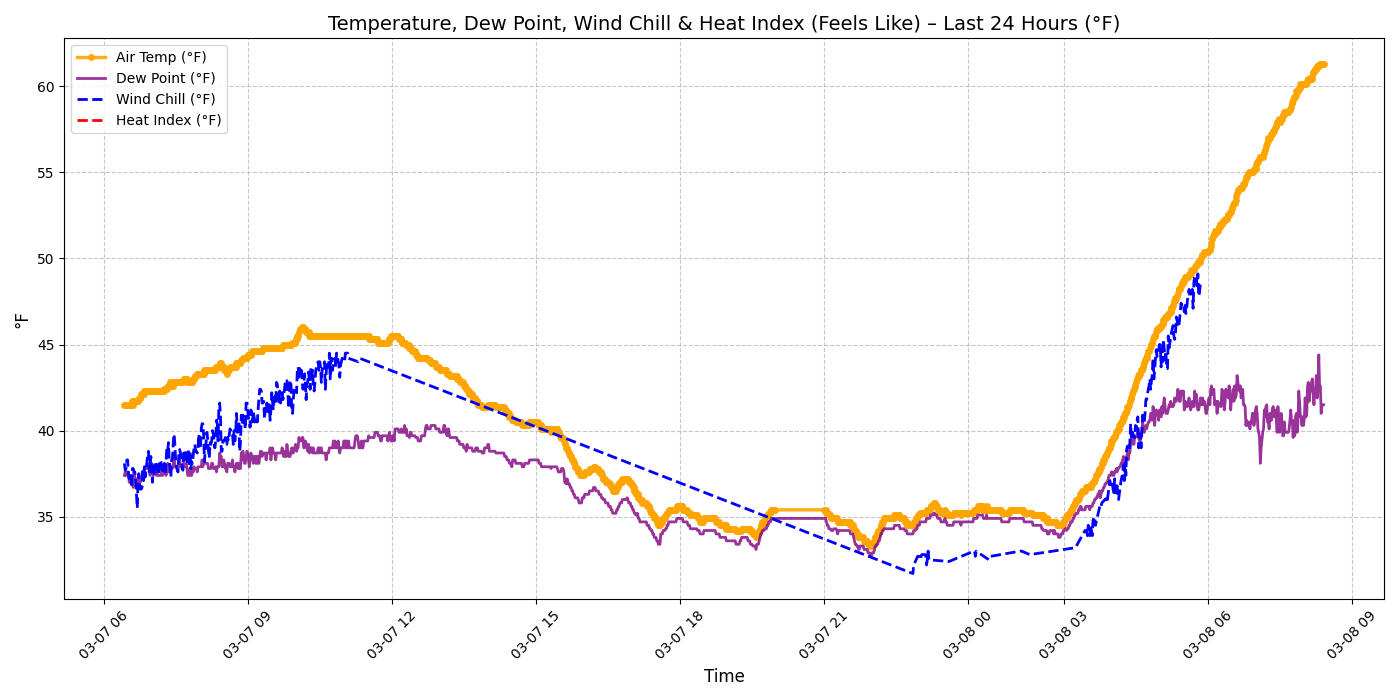
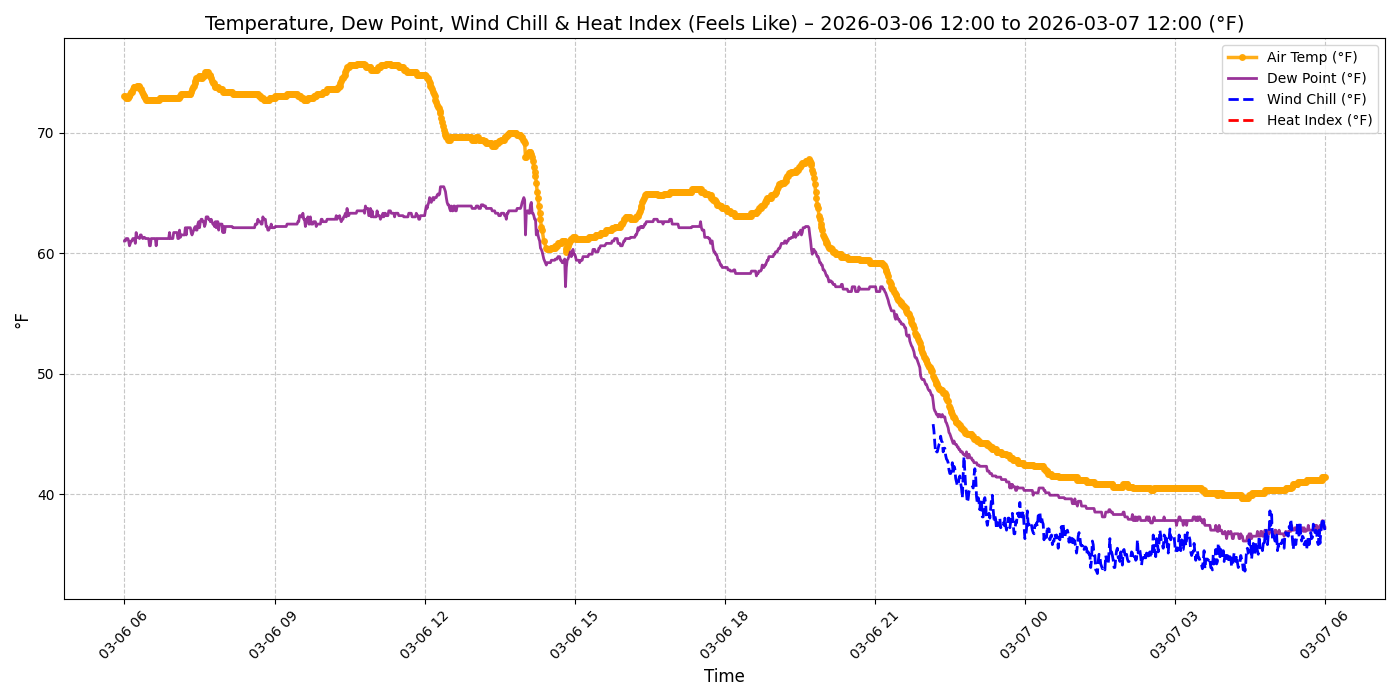
add day/time selection, mod rain graph to display inches

diff --git a/grapher.py b/grapher.py
@@ -3,7 +3,7 @@ import matplotlib.pyplot as plt
 import pandas as pd  # for cumsum/clip
 import numpy as np  # For binning and averages
 
-def plot_temperature(df, save_path='feels_like_24h.png', use_local_time=True):
+def plot_temperature(df, save_path='feels_like_24h.png', use_local_time=True, timeframe_str='Last 24 Hours'):
     time_col = 'timestamp_local' if use_local_time and 'timestamp_local' in df.columns else 'timestamp'
     
     plt.figure(figsize=(14, 7))
@@ -26,7 +26,7 @@ def plot_temperature(df, save_path='feels_like_24h.png', use_local_time=True):
     plt.plot(df[time_col][valid_hi], df['heat_index_f'][valid_hi], 
              color='red', linewidth=2, linestyle='--', label='Heat Index (°F)')
     
-    plt.title('Temperature, Dew Point, Wind Chill & Heat Index (Feels Like) – Last 24 Hours (°F)', fontsize=14)
+    plt.title(f'Temperature, Dew Point, Wind Chill & Heat Index (Feels Like) – {timeframe_str} (°F)', fontsize=14)
     plt.xlabel('Time', fontsize=12)
     plt.ylabel('°F', fontsize=12)
     plt.legend(loc='best', fontsize=10)
@@ -37,12 +37,12 @@ def plot_temperature(df, save_path='feels_like_24h.png', use_local_time=True):
     plt.show()
     print(f"Feels-like graph (Temp/Dew/Wind Chill/Heat Index) saved as {save_path}")
 
-def plot_humidity(df, save_path='humidity_24h.png', use_local_time=True):
+def plot_humidity(df, save_path='humidity_24h.png', use_local_time=True, timeframe_str='Last 24 Hours'):
     time_col = 'timestamp_local' if use_local_time and 'timestamp_local' in df.columns else 'timestamp'
     
     plt.figure(figsize=(12, 6))
     plt.plot(df[time_col], df['humidity_pct'], color='blue', linewidth=2, marker='o', markersize=3, alpha=0.8)
-    plt.title('Relative Humidity Over the Last 24 Hours (%)', fontsize=14)
+    plt.title(f'Relative Humidity Over {timeframe_str} (%)', fontsize=14)
     plt.xlabel('Time', fontsize=12)
     plt.ylabel('Humidity (%)', fontsize=12)
     plt.ylim(0, 100)
@@ -53,7 +53,7 @@ def plot_humidity(df, save_path='humidity_24h.png', use_local_time=True):
     plt.show()
     print(f"Humidity graph saved as {save_path}")
 
-def plot_wind(df, save_path='wind_24h.png', use_local_time=True):
+def plot_wind(df, save_path='wind_24h.png', use_local_time=True, timeframe_str='Last 24 Hours'):
     time_col = 'timestamp_local' if use_local_time and 'timestamp_local' in df.columns else 'timestamp'
     
     # Convert m/s to mph
@@ -63,7 +63,7 @@ def plot_wind(df, save_path='wind_24h.png', use_local_time=True):
     plt.figure(figsize=(12, 6))
     plt.plot(df[time_col], df['wind_avg_mph'], label='Average Wind', color='green', linewidth=2)
     plt.plot(df[time_col], df['wind_gust_mph'], label='Gust', color='red', linewidth=2, linestyle='--')
-    plt.title('Wind Speed Over the Last 24 Hours (mph)', fontsize=14)
+    plt.title(f'Wind Speed Over {timeframe_str} (mph)', fontsize=14)
     plt.xlabel('Time', fontsize=12)
     plt.ylabel('Wind Speed (mph)', fontsize=12)
     plt.legend()
@@ -74,7 +74,7 @@ def plot_wind(df, save_path='wind_24h.png', use_local_time=True):
     plt.show()
     print(f"Wind graph saved as {save_path}")
 
-def plot_pressure(df, save_path='pressure_24h.png', use_local_time=True):
+def plot_pressure(df, save_path='pressure_24h.png', use_local_time=True, timeframe_str='Last 24 Hours'):
     time_col = 'timestamp_local' if use_local_time and 'timestamp_local' in df.columns else 'timestamp'
     
     # Convert mb to inHg
@@ -82,7 +82,7 @@ def plot_pressure(df, save_path='pressure_24h.png', use_local_time=True):
     
     plt.figure(figsize=(12, 6))
     plt.plot(df[time_col], df['pressure_inhg'], color='purple', linewidth=2, marker='o', markersize=3, alpha=0.8)
-    plt.title('Barometric Pressure Over the Last 24 Hours (inHg)', fontsize=14)
+    plt.title(f'Barometric Pressure Over {timeframe_str} (inHg)', fontsize=14)
     plt.xlabel('Time', fontsize=12)
     plt.ylabel('Pressure (inHg)', fontsize=12)
     plt.grid(True, linestyle='--', alpha=0.7)
@@ -92,7 +92,7 @@ def plot_pressure(df, save_path='pressure_24h.png', use_local_time=True):
     plt.show()
     print(f"Pressure graph saved as {save_path}")
 
-def plot_solar_and_uv(df, save_path='solar_uv_24h.png', use_local_time=True):
+def plot_solar_and_uv(df, save_path='solar_uv_24h.png', use_local_time=True, timeframe_str='Last 24 Hours'):
     time_col = 'timestamp_local' if use_local_time and 'timestamp_local' in df.columns else 'timestamp'
     
     fig, ax1 = plt.subplots(figsize=(12, 6))
@@ -108,7 +108,7 @@ def plot_solar_and_uv(df, save_path='solar_uv_24h.png', use_local_time=True):
     ax2.set_ylabel('UV Index', color='violet', fontsize=12)
     ax2.tick_params(axis='y', labelcolor='violet')
     
-    plt.title('Solar Radiation & UV Index Over the Last 24 Hours', fontsize=14)
+    plt.title(f'Solar Radiation & UV Index Over {timeframe_str}', fontsize=14)
     fig.legend(loc='upper right')
     plt.xticks(rotation=45)
     plt.tight_layout()
@@ -116,17 +116,18 @@ def plot_solar_and_uv(df, save_path='solar_uv_24h.png', use_local_time=True):
     plt.show()
     print(f"Solar & UV graph saved as {save_path}")
 
-def plot_precip_accumulated(df, save_path='precip_24h.png', use_local_time=True):
+def plot_precip_accumulated(df, save_path='precip_24h.png', use_local_time=True, timeframe_str='Last 24 Hours'):
     time_col = 'timestamp_local' if use_local_time and 'timestamp_local' in df.columns else 'timestamp'
     
     # Cumulative precipitation, force non-negative
     df['precip_cumulative_mm'] = df['precip_mm_interval'].cumsum().clip(lower=0)
+    df['precip_cumulative_in'] = (df['precip_cumulative_mm'] * 0.0393701).round(2)
     
     plt.figure(figsize=(12, 6))
-    plt.plot(df[time_col], df['precip_cumulative_mm'], color='cyan', linewidth=2.5)
-    plt.title('Cumulative Precipitation Over the Last 24 Hours (mm)', fontsize=14)
+    plt.plot(df[time_col], df['precip_cumulative_in'], color='cyan', linewidth=2.5)
+    plt.title(f'Cumulative Precipitation Over {timeframe_str} (inches)', fontsize=14)
     plt.xlabel('Time', fontsize=12)
-    plt.ylabel('Cumulative Rain (mm)', fontsize=12)
+    plt.ylabel('Cumulative Rain (inches)', fontsize=12)
     plt.ylim(bottom=0)  # Explicitly start y-axis at 0
     plt.grid(True, linestyle='--', alpha=0.7)
     plt.xticks(rotation=45)
@@ -135,7 +136,7 @@ def plot_precip_accumulated(df, save_path='precip_24h.png', use_local_time=True)
     plt.show()
     print(f"Precipitation graph saved as {save_path}")
 
-def plot_wind_rose(df, save_path='wind_rose_24h.png'):
+def plot_wind_rose(df, save_path='wind_rose_24h.png', timeframe_str='Last 24 Hours'):
     # Filter valid data
     valid = df['wind_dir_deg'].notna() & df['wind_avg_mph'].notna()
     directions = df['wind_dir_deg'][valid]
@@ -180,7 +181,7 @@ def plot_wind_rose(df, save_path='wind_rose_24h.png'):
     cbar = plt.colorbar(sm, ax=ax, pad=0.1)
     cbar.set_label('Avg Wind Speed (mph)')
     
-    plt.title('Wind Rose: Direction Frequency & Avg Speed (Last 24h)', fontsize=14)
+    plt.title(f'Wind Rose: Direction Frequency & Avg Speed {timeframe_str}', fontsize=14)
     plt.tight_layout()
     plt.savefig(save_path)
     plt.show()

diff --git a/main.py b/main.py
@@ -11,9 +11,15 @@ from grapher import (
 )
 import sys
 
+current_start = None  # Global for custom start (str)
+current_end = None    # Global for custom end (str)
+
 def main():
+    global current_start, current_end
     while True:
         print("\nTempest Weather Tool")
+        print(f"Current Timeframe: {'Default 24h' if not current_start else f'{current_start} to {current_end} (local)'}")
+        print("0: Set Custom Timeframe")
         print("1: Temperature and Dew Point Graph (24h)")
         print("2: Humidity Graph (24h)")
         print("3: Wind Speed Graph (24h)")
@@ -31,35 +37,51 @@ def main():
             sys.exit(0)
 
         try:
-            df = get_historical_obs(hours_back=24)
+            if choice == '0':  # New: Set timeframe
+                print("Enter start time (YYYY-MM-DD HH:MM, local time; blank for 24h back):")
+                new_start = input().strip() or None
+                print("Enter end time (YYYY-MM-DD HH:MM, local time; blank for now):")
+                new_end = input().strip() or None
+                # Test parse to validate
+                get_historical_obs(start_str=new_start, end_str=new_end)  # Dry run to check
+                current_start = new_start
+                current_end = new_end
+                print("Timeframe updated.")
+                continue
+
+            df = get_historical_obs(start_str=current_start, end_str=current_end)
             if df is None:
                 print("No data returned from API.")
                 continue
 
-            print(f"Fetched {len(df)} observations.")
+            print(f"Fetched {len(df)} observations over selected timeframe.")
 
             use_local = 'timestamp_local' in df.columns
+            timeframe_str = 'Last 24 Hours' if not current_start else f'{current_start} to {current_end}'
 
             if choice == '1':
-                plot_temperature(df, use_local_time=use_local)
+                plot_temperature(df, use_local_time=use_local, timeframe_str=timeframe_str)
             elif choice == '2':
-                plot_humidity(df, use_local_time=use_local)
+                plot_humidity(df, use_local_time=use_local, timeframe_str=timeframe_str)
             elif choice == '3':
-                plot_wind(df, use_local_time=use_local)
+                plot_wind(df, use_local_time=use_local, timeframe_str=timeframe_str)
             elif choice == '4':
-                plot_pressure(df, use_local_time=use_local)
+                plot_pressure(df, use_local_time=use_local, timeframe_str=timeframe_str)
             elif choice == '5':
-                plot_solar_and_uv(df, use_local_time=use_local)
+                plot_solar_and_uv(df, use_local_time=use_local, timeframe_str=timeframe_str)
             elif choice == '6':
-                plot_precip_accumulated(df, use_local_time=use_local)
+                plot_precip_accumulated(df, use_local_time=use_local, timeframe_str=timeframe_str)
             elif choice == '7':
-                df.to_csv('historical_24h.csv', index=False)
-                print("Data saved to historical_24h.csv")
+                save_path = 'historical_data.csv'  # Or dynamic name with dates
+                df.to_csv(save_path, index=False)
+                print(f"Data saved to {save_path}")
             elif choice == '8':
                 plot_wind_rose(df)
             else:
                 print("Invalid choice. Try again.")
 
+        except ValueError as ve:
+            print(f"Input error: {ve}")
         except Exception as e:
             print(f"Error: {e}")
 

diff --git a/api_client.py b/api_client.py
@@ -51,13 +51,43 @@ def calculate_dew_point_c(temp_c, humidity_pct):
     dew_c = (b * alpha) / (a - alpha)
     return round(dew_c, 1)
 
-def get_historical_obs(hours_back=24):
+def get_historical_obs(hours_back=24, start_str=None, end_str=None, local_tz_str='America/Chicago'):
     if not TOKEN or not DEVICE_ID:
         raise ValueError("Missing TOKEN or DEVICE_ID in .env file")
 
-    now = datetime.now(timezone.utc)
-    time_end = int(now.timestamp())
-    time_start = int((now - timedelta(hours=hours_back)).timestamp())
+    local_tz = pytz.timezone(local_tz_str)
+    now_local = datetime.now(local_tz)
+    now_utc = now_local.astimezone(pytz.utc)
+
+    # Default: last 24h if no inputs
+    if not start_str:
+        start_utc = now_utc - timedelta(hours=24)
+    else:
+        try:
+            start_local = local_tz.localize(datetime.strptime(start_str, '%Y-%m-%d %H:%M'))
+            start_utc = start_local.astimezone(pytz.utc)
+        except ValueError:
+            raise ValueError("Invalid start format. Use 'YYYY-MM-DD HH:MM' (24h).")
+
+    if not end_str:
+        end_utc = now_utc
+    else:
+        try:
+            end_local = local_tz.localize(datetime.strptime(end_str, '%Y-%m-%d %H:%M'))
+            end_utc = end_local.astimezone(pytz.utc)
+        except ValueError:
+            raise ValueError("Invalid end format. Use 'YYYY-MM-DD HH:MM' (24h).")
+
+    # Check duration (warn if >5 days)
+    duration_days = (end_utc - start_utc).days
+    if duration_days > 5:
+        print("Warning: API may return aggregated/low-res data for >5 days. Consider using /stats for summaries.")
+
+    time_start = int(start_utc.timestamp())
+    time_end = int(end_utc.timestamp())
+
+    if time_start >= time_end:
+        raise ValueError("Start time must be before end time.")
 
     url = (f"https://swd.weatherflow.com/swd/rest/observations/device/{DEVICE_ID}"
            f"?time_start={time_start}&time_end={time_end}&token={TOKEN}")
